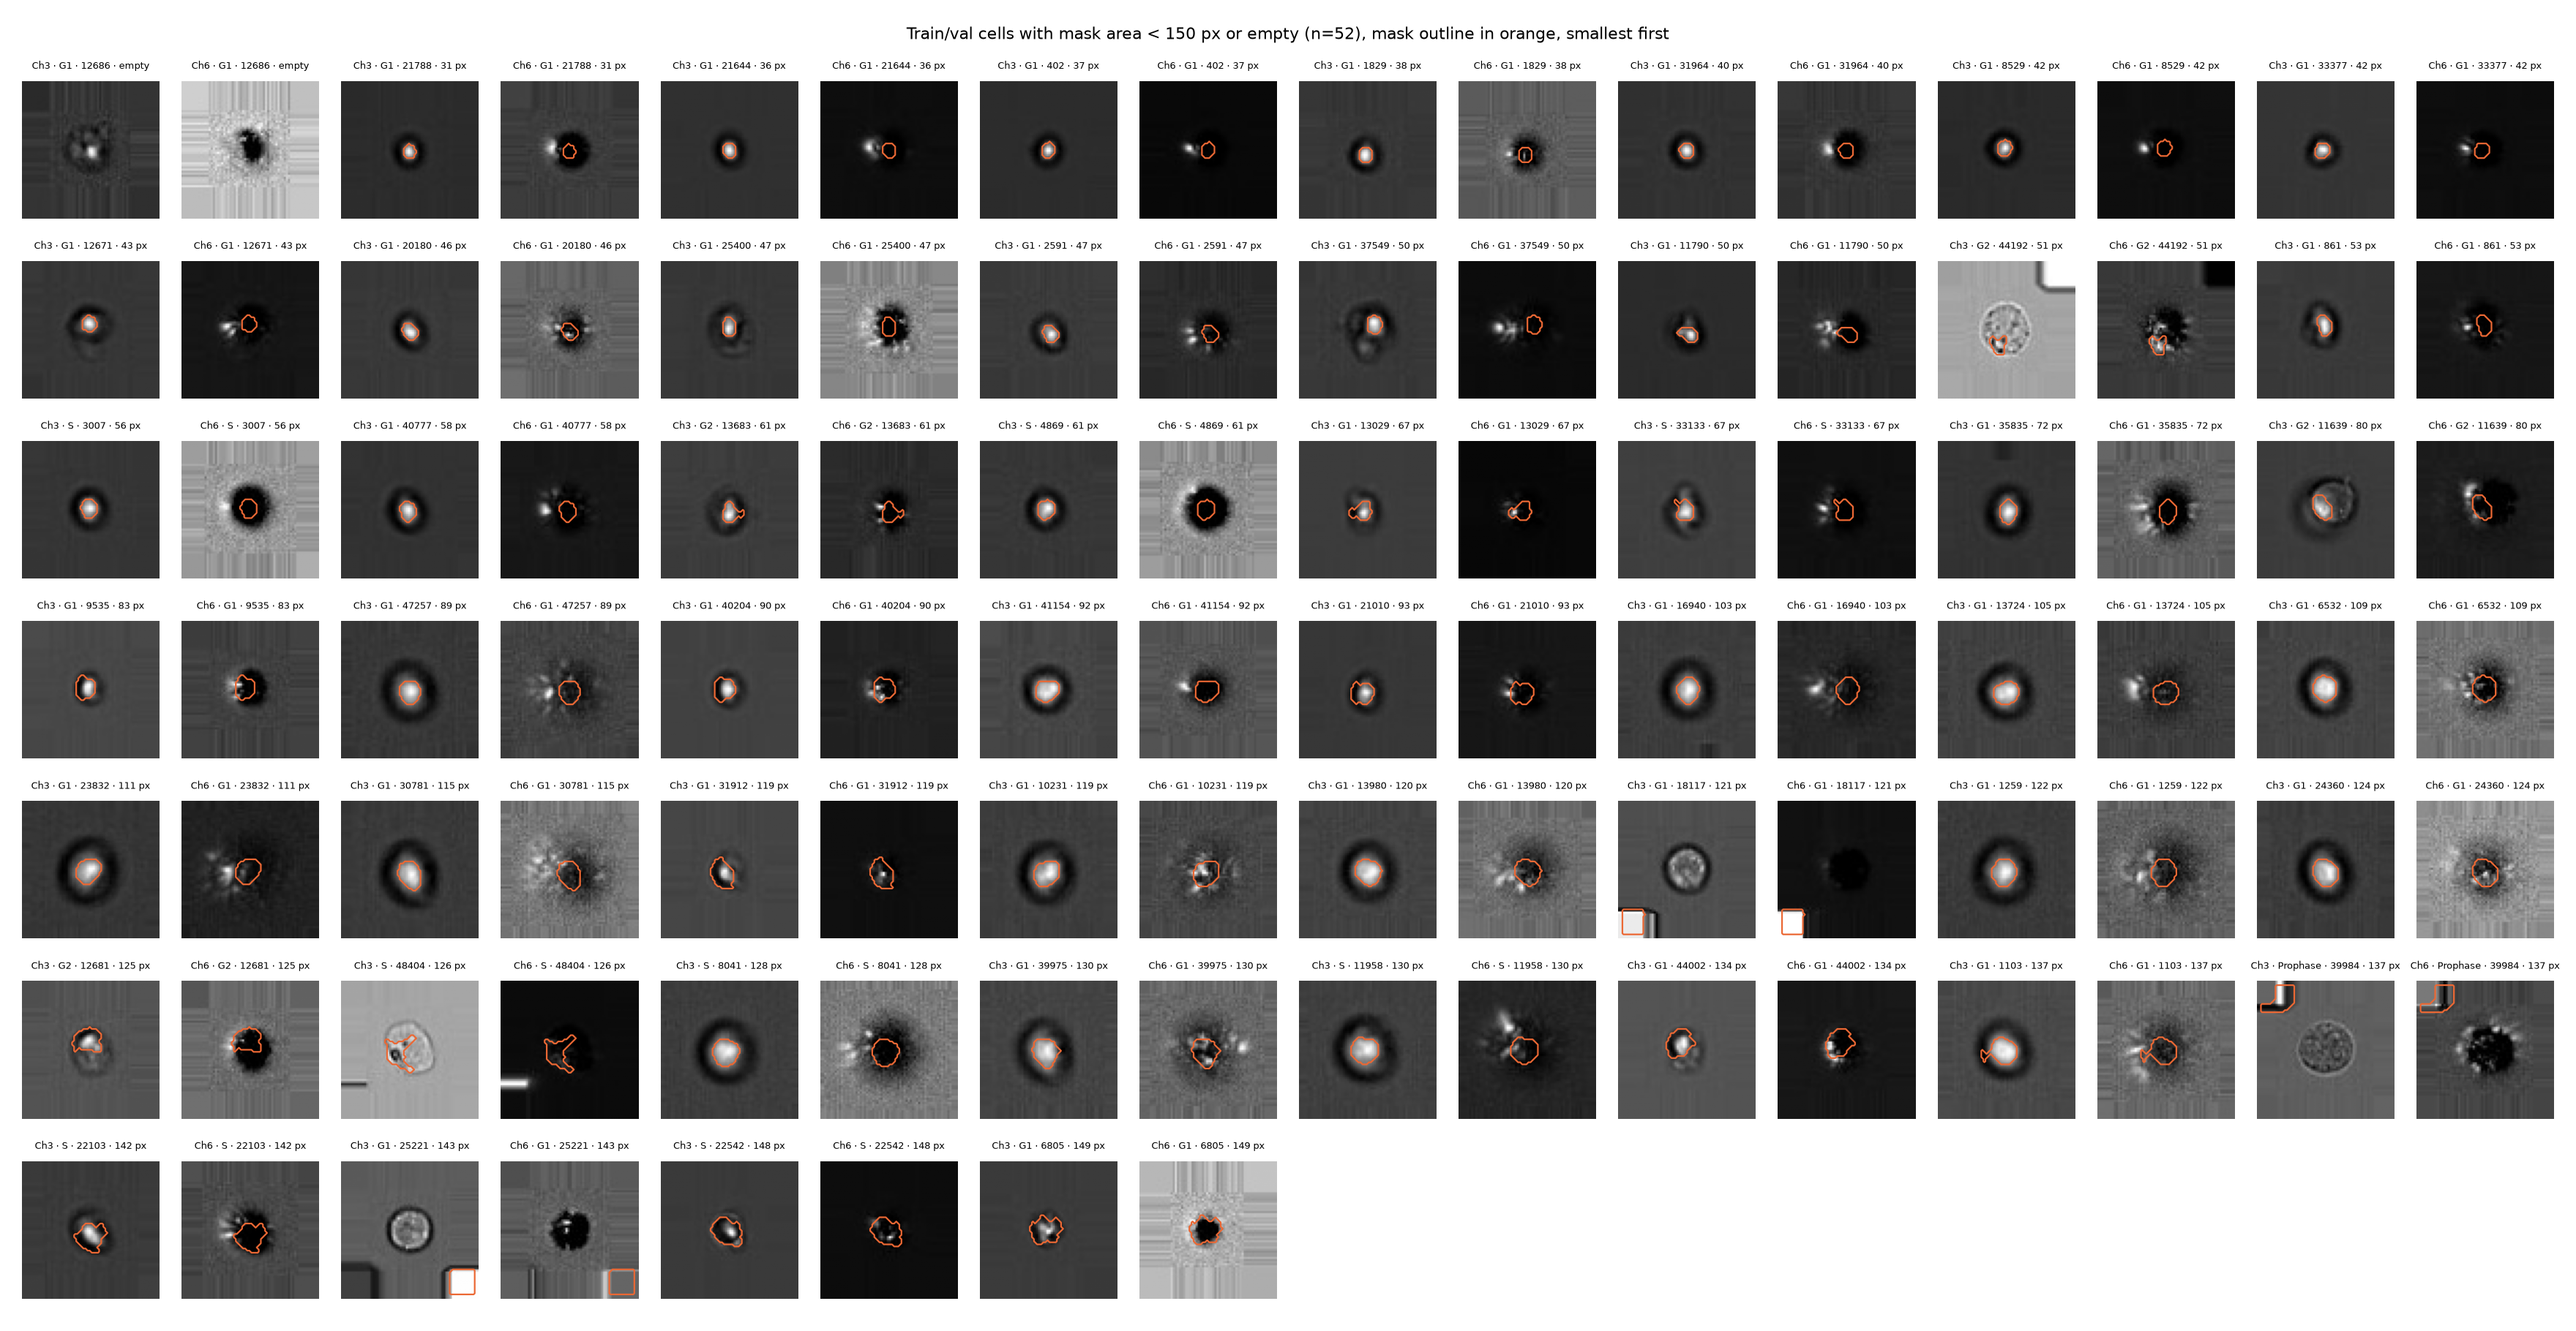
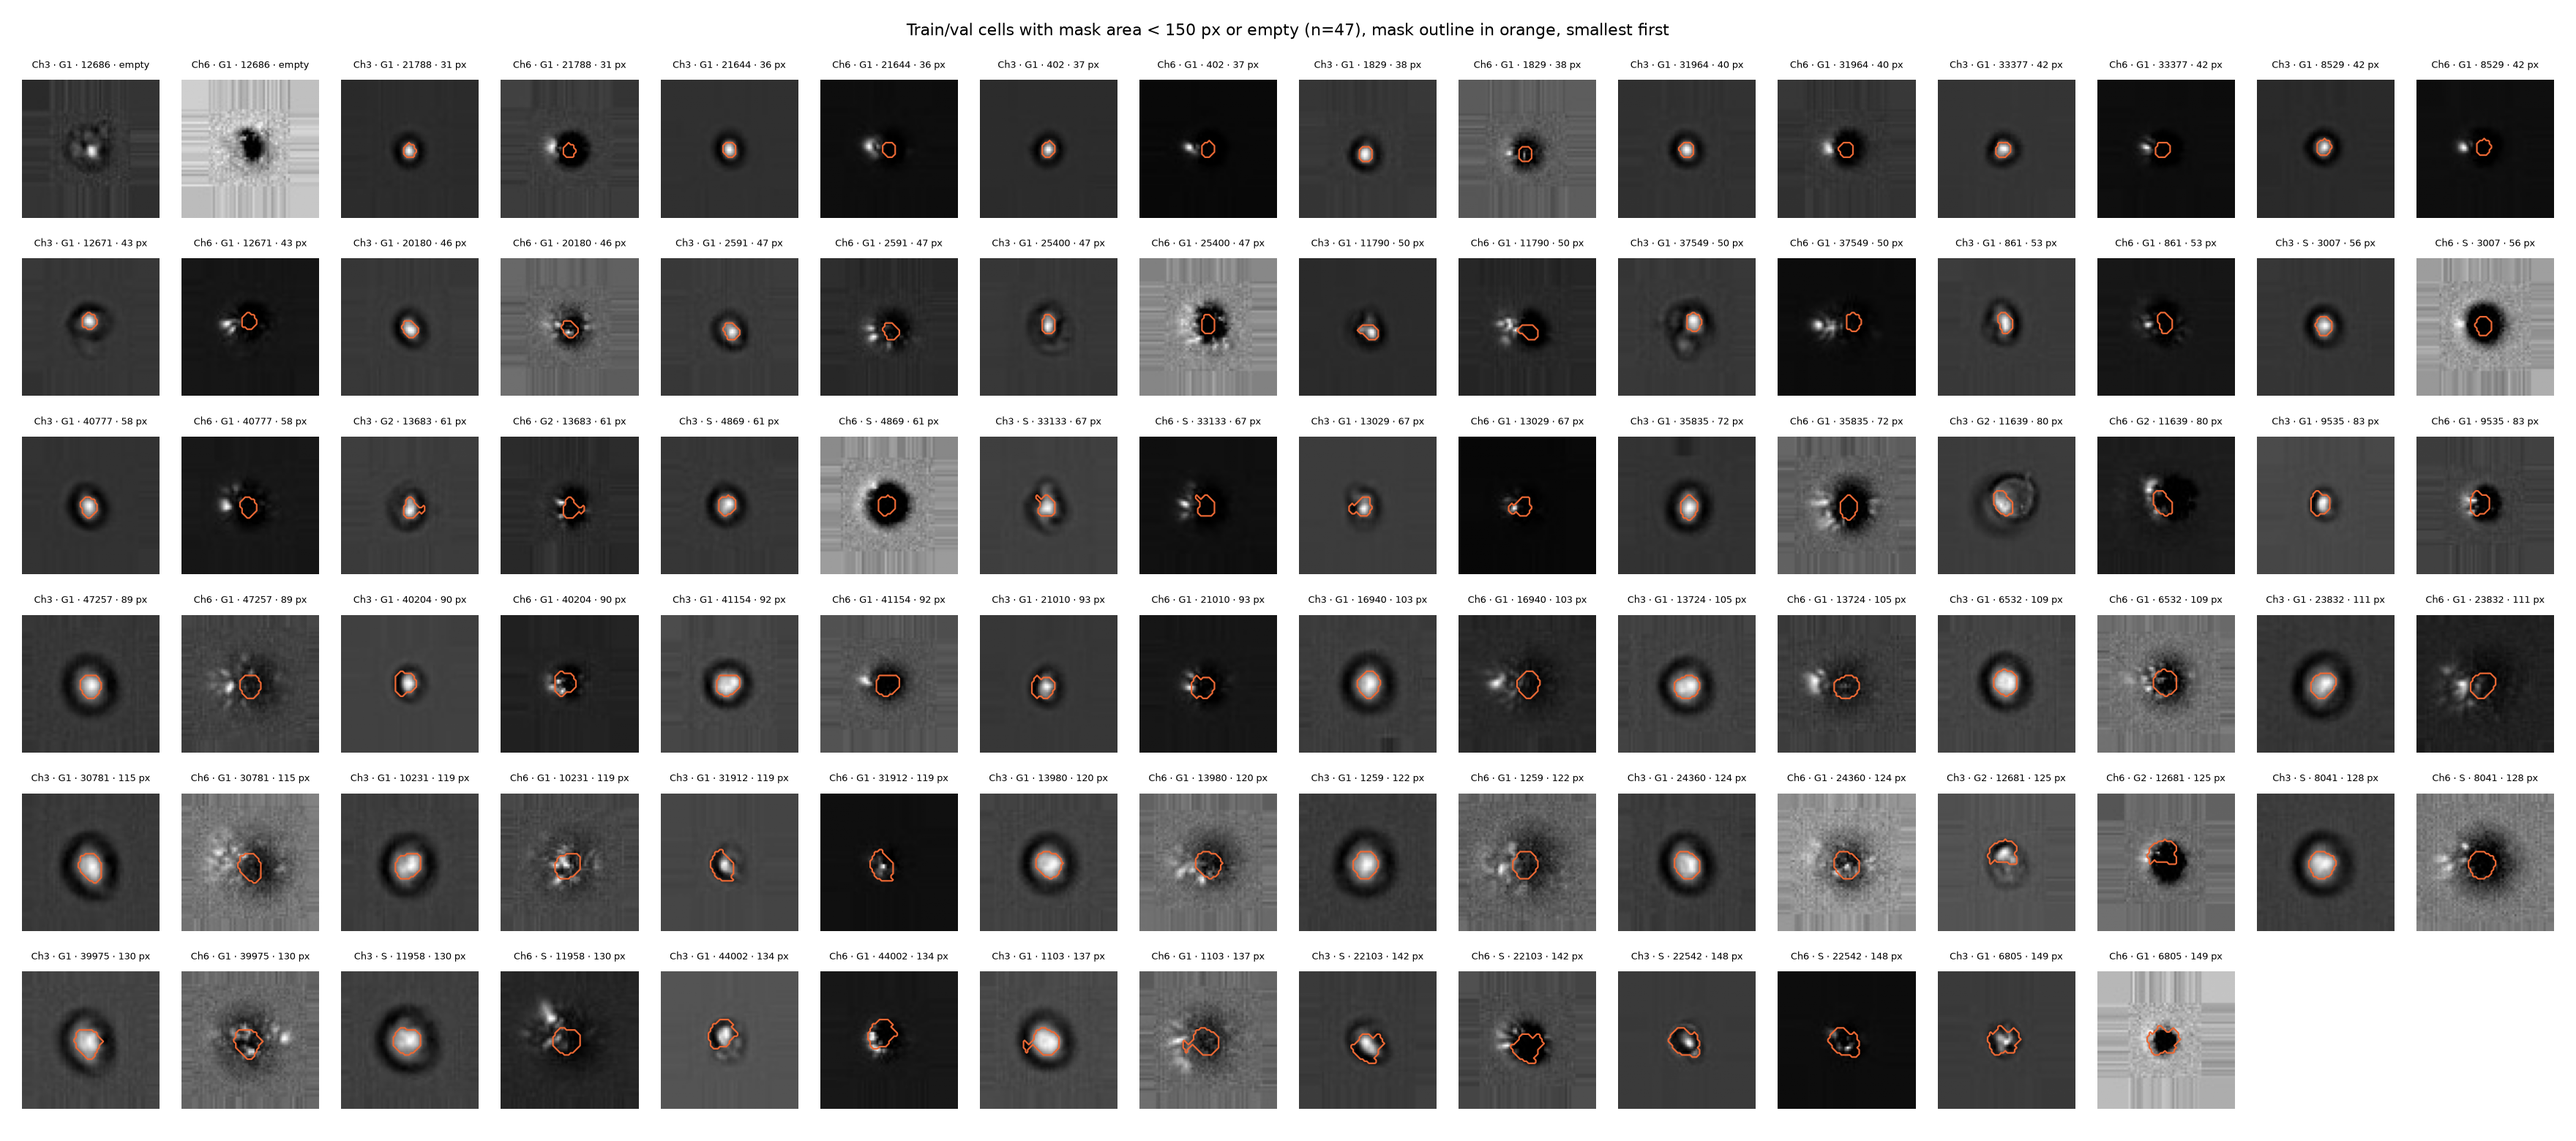
Fix artefact masks; define main and raw_dark feature sets
- Mask fallback keeps the object nearest the image centre, not the largest
- Otsu threshold = min(whole-image, central 25 px disc): fixes the 5
  masks that sat on corner/line artefacts without shrinking blurry cells
- config.FEATURE_SETS: main (background-robust, 28 features) and
  raw_dark (main + raw Ch6 mean/percentiles, 34) for the RQ5 side
  experiment
- Regenerated mask_check.png and tiny_masks.png (47 cells, was 52)

diff --git a/src/features.py b/src/features.py
@@ -26,18 +26,27 @@ def border_median(img):
     return np.median(img[border_ring(img.shape)])
 
 
+def central_disc(shape, radius=config.MASK_OTSU_RADIUS_PX):
+    yy, xx = np.indices(shape)
+    return np.hypot(yy - (shape[0] - 1) / 2, xx - (shape[1] - 1) / 2) < radius
+
+
 def cell_mask(bf):
     """Boolean cell mask from a brightfield image.
 
     The cell is both darker (rim) and brighter (interior) than the grey background, so Otsu is
     applied to the absolute difference from the background level, not to the raw intensity.
+    The threshold is the lower of the whole-image and central-disc Otsu thresholds: a high-contrast
+    corner artefact raises the whole-image one above a pale cell's contrast (central wins), while for
+    a blurry cell filling the disc the central one splits core from halo (whole-image wins).
     Objects reaching into the border ring (corner artefacts) are dropped unless nothing else is left,
-    then the largest object is kept. All other objects are kept, so telophase doublets keep both daughters.
-    Returns (mask, number of border objects dropped).
+    then the object nearest the image centre is kept. All other objects are kept, so telophase
+    doublets keep both daughters. Returns (mask, number of border objects dropped).
     """
     diff = np.abs(bf.astype(np.float64) - border_median(bf))
     diff = filters.gaussian(diff, sigma=config.MASK_SMOOTH_SIGMA, preserve_range=True)
-    mask = diff > filters.threshold_otsu(diff)
+    threshold = min(filters.threshold_otsu(diff), filters.threshold_otsu(diff[central_disc(diff.shape)]))
+    mask = diff > threshold
     mask = ndi.binary_closing(mask, structure=morphology.disk(config.MASK_CLOSING_RADIUS))
     mask = ndi.binary_fill_holes(mask)
     mask = morphology.remove_small_objects(mask, max_size=config.MASK_MIN_OBJECT_PX)
@@ -50,8 +59,10 @@ def cell_mask(bf):
         return inner, len(edge)
     if labels.max() == 0:
         return mask, 0
-    largest = np.argmax(np.bincount(labels.ravel())[1:]) + 1
-    return labels == largest, len(edge) - 1
+    centre = (np.array(labels.shape) - 1) / 2
+    props = measure.regionprops(labels)
+    nearest = min(props, key=lambda p: np.hypot(*(np.array(p.centroid) - centre))).label
+    return labels == nearest, len(edge) - 1
 
 
 def shape_features(mask):

diff --git a/src/config.py b/src/config.py
@@ -28,16 +28,32 @@ MAP_7_TO_4 = (0, 1, 2, 3, 3, 3, 3)
 # Mask: Otsu threshold on the brightfield |pixel - background|, background = median of the border ring
 MASK_BORDER_PX = 3  # width of the border ring used to estimate the background
 MASK_SMOOTH_SIGMA = 1.0  # Gaussian blur before thresholding
+MASK_OTSU_RADIUS_PX = 25  # threshold = min(Otsu on whole image, Otsu on pixels within this radius of the centre)
 MASK_CLOSING_RADIUS = 2
 MASK_MIN_OBJECT_PX = 30  # objects this size or smaller are removed
 INTENSITY_PERCENTILES = (10, 25, 50, 75, 90)
 # Also store mean/percentiles minus the median outside the mask (raw versions are kept too)
 BG_CORRECTED_CHANNELS = ("Ch6",)
 TINY_MASK_AREA_PX = 150  # masks smaller than this are shown in figures/tiny_masks.png
+
 GLCM_LEVELS = 32  # grey levels after quantising 0-255
 GLCM_DISTANCES = (1,)
 GLCM_ANGLES_DEG = (0, 45, 90, 135)  # GLCM properties are averaged over these
 GLCM_PROPS = ("contrast", "homogeneity", "energy", "correlation")
+
+# Feature sets for the random forest (column names in data/features.parquet)
+_SHAPE = ("area", "perimeter", "eccentricity", "solidity", "axis_major_length", "axis_minor_length", "extent")
+_PCTS = tuple(f"p{q}" for q in INTENSITY_PERCENTILES)
+_BF_INTENSITY = tuple(f"Ch3_{k}" for k in ("mean", "sd", *_PCTS))
+_GLCM = tuple(f"{ch}_glcm_{p}" for ch in ("Ch3", "Ch6") for p in GLCM_PROPS)
+_DF_RAW_LEVEL = tuple(f"Ch6_{k}" for k in ("mean", *_PCTS))  # shift with the darkfield background
+_DF_BGCORR_PCTS = tuple(f"Ch6_bgcorr_{k}" for k in _PCTS)
+# Ch6_sd is unchanged by subtracting a constant background, so it counts as background-robust.
+# Ch6_bgcorr_mean is left out: it still tracks the background (r = -0.92, see PROJECT.md Observations).
+FEATURE_SETS = {
+    "main": _SHAPE + _BF_INTENSITY + _GLCM + ("Ch6_sd",) + _DF_BGCORR_PCTS,  # main random forest
+    "raw_dark": _SHAPE + _BF_INTENSITY + _GLCM + ("Ch6_sd",) + _DF_BGCORR_PCTS + _DF_RAW_LEVEL,  # RQ5 side experiment
+}
 
 # Split and seeds
 SPLIT_SEED = 42

diff --git a/tests/test_features.py b/tests/test_features.py
@@ -2,7 +2,7 @@ import numpy as np
 import pytest
 
 from src import config
-from src.features import cell_features, cell_mask
+from src.features import NON_FEATURE_COLUMNS, cell_features, cell_mask
 
 
 def _synthetic_cell(radius=12, corner_artefact=False):
@@ -56,3 +56,26 @@ def test_darkfield_background_correction():
 def test_empty_image_gives_no_features():
     out = cell_features(np.full((2, config.IMAGE_SIZE, config.IMAGE_SIZE), 100, np.uint8))
     assert "area" not in out
+
+
+def test_feature_sets_match_computed_columns():
+    img, _ = _synthetic_cell()
+    computed = set(cell_features(np.stack([img, img])))
+    for name, cols in config.FEATURE_SETS.items():
+        assert len(cols) == len(set(cols)), name
+        assert set(cols) <= computed, set(cols) - computed
+        assert not set(cols) & set(NON_FEATURE_COLUMNS), name
+    main, raw = set(config.FEATURE_SETS["main"]), set(config.FEATURE_SETS["raw_dark"])
+    assert main < raw
+    assert not {"Ch6_mean", "Ch6_p50", "Ch6_bgcorr_mean"} & main
+    assert raw - main == {"Ch6_mean", *(f"Ch6_p{q}" for q in config.INTENSITY_PERCENTILES)}
+
+
+def test_fallback_keeps_object_nearest_centre():
+    """Only border objects: a big one in a corner and a small one nearer the centre -> keep the nearer one."""
+    size = config.IMAGE_SIZE
+    img = np.full((size, size), 100, np.uint8)
+    img[:14, :14] = 20          # big corner block
+    img[size - 6:, 20:32] = 20  # smaller block on the bottom edge, nearer the centre
+    mask, n_dropped = cell_mask(img)
+    assert n_dropped == 1 and mask[size - 4, 25] and not mask[5, 5]

diff --git a/PROJECT.md b/PROJECT.md
@@ -62,6 +62,8 @@ Predict the cell cycle phase of single Jurkat cells from label-free brightfield 
 | 2026-10-24 | Keep every cell, including the empty-mask cell and tiny/failed masks; no cell is removed from the split | The split stays fixed; mask failures are handled at the feature level |
 | 2026-10-24 | Random forest: missing features filled with the training-set median per feature, fitted on train rows only | One cell (12686) has an empty mask; fitting on train only avoids leakage from val/test |
 | 2026-10-24 | Darkfield (Ch6) background-corrected intensity features added (mean and percentiles minus the median outside the mask); raw features kept | Lets us compare raw vs corrected, because Ch6 background differs by phase |
+| 2026-10-24 | Mask: if every object reaches the border ring, keep the object nearest the image centre (not the largest); Otsu threshold = min(whole-image Otsu, Otsu within 25 px of the centre) | Fixes the 5 masks that sat on artefacts: nearest-centre alone fixed none (the cell was never detected), central-only Otsu shrank 46 blurry cells to their bright core; the min fixes all 5 and changes only 13 train/val cells by >20% |
+| 2026-10-24 | Two feature sets in `config.FEATURE_SETS`: `main` = background-robust (shape, brightfield intensity, GLCM both channels, Ch6 SD, Ch6 background-corrected percentiles; no raw Ch6 mean/percentiles, no corrected Ch6 mean); `raw_dark` = `main` + raw Ch6 mean/percentiles | Main random forest uses `main`; `raw_dark` is a side experiment for RQ5 (does the darkfield background shortcut help?). Ch6 SD is kept because subtracting a constant background does not change it |
 
 ## 9. Observations
 | Date | Observation | Relevance |
@@ -71,3 +73,4 @@ Predict the cell cycle phase of single Jurkat cells from label-free brightfield 
 | 2026-10-24 | Corner/border artefacts: the brightfield mask found an extra object in the 3 px border ring in 860 of 32,266 cells (2.7%); similar rate in G1/S/G2/prophase (2.1–2.7%). | RQ5 shortcut candidate; dropped from the mask |
 | 2026-10-24 | Ch6 background depends on phase: median border level G1 45, S 37, G2 32, prophase 33, metaphase 24 (train+val; `figures/eda_intensity_hist.png`). Subtracting it flattens Ch6 p90 across phases, but the corrected Ch6 mean is still strongly tied to the background (r = −0.92, raw r = +0.82), because the cell interior is dark regardless. | RQ5 shortcut candidate; corrected mean is not shortcut-free |
 | 2026-10-24 | 52 train/val cells have a mask < 150 px or empty (`figures/tiny_masks.png`), 39 of them G1. Most are small, blurry cells where the mask catches only the bright core. In about 5 (e.g. 18117, 25221, 39984, 44192, 48404) the mask sits on a corner/line artefact instead of a pale cell on a bright background. | Features of those cells describe the artefact; kept per decision above |
+| 2026-10-24 | After the mask change (see decisions log), the 5 artefact masks are on the cell (areas 306–621 px; 48404 still partial). 47 train/val cells remain < 150 px or empty, 37 of them G1, all small/blurry cells (`figures/tiny_masks.png`); border objects dropped in 864 cells (2.7%). | Mask failures now limited to blurry cells; 12686 still empty |

diff --git a/notes/session_2026-10-24.md b/notes/session_2026-10-24.md
@@ -148,3 +148,18 @@ Balanced accuracy of a know-nothing classifier sits at 1/number of classes (1/4 
      - The corrected *mean* is still strongly tied to the background, just reversed (r = −0.92, raw +0.82). The inside of a cell is dark in darkfield whatever the background, so "cell minus background" mostly becomes "minus background".
 5. **PROJECT.md Observations** now has the corner-artefact rate, the darkfield background finding and the tiny-mask finding.
 6. **Test rows stay in `features.parquet`.**
+
+## Follow-up 2: mask fix and feature sets
+
+- **Mask fix.** Two changes, now in the decisions log:
+  - If every object in the mask reaches the image border, the object nearest the centre is kept (before: the largest).
+  - The Otsu threshold is now the *lower* of the whole-image threshold and a threshold computed only from the central 25 px radius.
+  - Why both were needed:
+    - In 3 of the 5 broken cells, the cell was never detected at all: a high-contrast corner artefact pushed the threshold above the pale cell's contrast. So "nearest the centre" alone had nothing to choose.
+    - A central-only threshold fixed them, but it shrank 46 blurry cells to their bright core.
+    - Taking the lower of the two thresholds fixes the 5 cells and leaves the blurry cells as before.
+  - **Result:** all 5 masks are now on the cell (48404 still only partly). 47 tiny masks remain, all small or blurry cells. Only 13 train/val cells changed by more than 20%.
+- **Feature sets** (`config.FEATURE_SETS`):
+  - `main` (28 features) is what the main random forest will use. It leaves out every darkfield feature that moves with the background level: the raw Ch6 mean and percentiles, and the corrected Ch6 mean.
+  - `raw_dark` (34 features) adds the raw darkfield mean and percentiles back. It is the RQ5 side experiment: if `raw_dark` scores clearly higher, part of that gain probably comes from the background shortcut.
+  - **One choice I made:** the darkfield SD (`Ch6_sd`) is in `main`. Subtracting a constant background does not change an SD, so it is background-robust even though it is computed from raw pixels.
